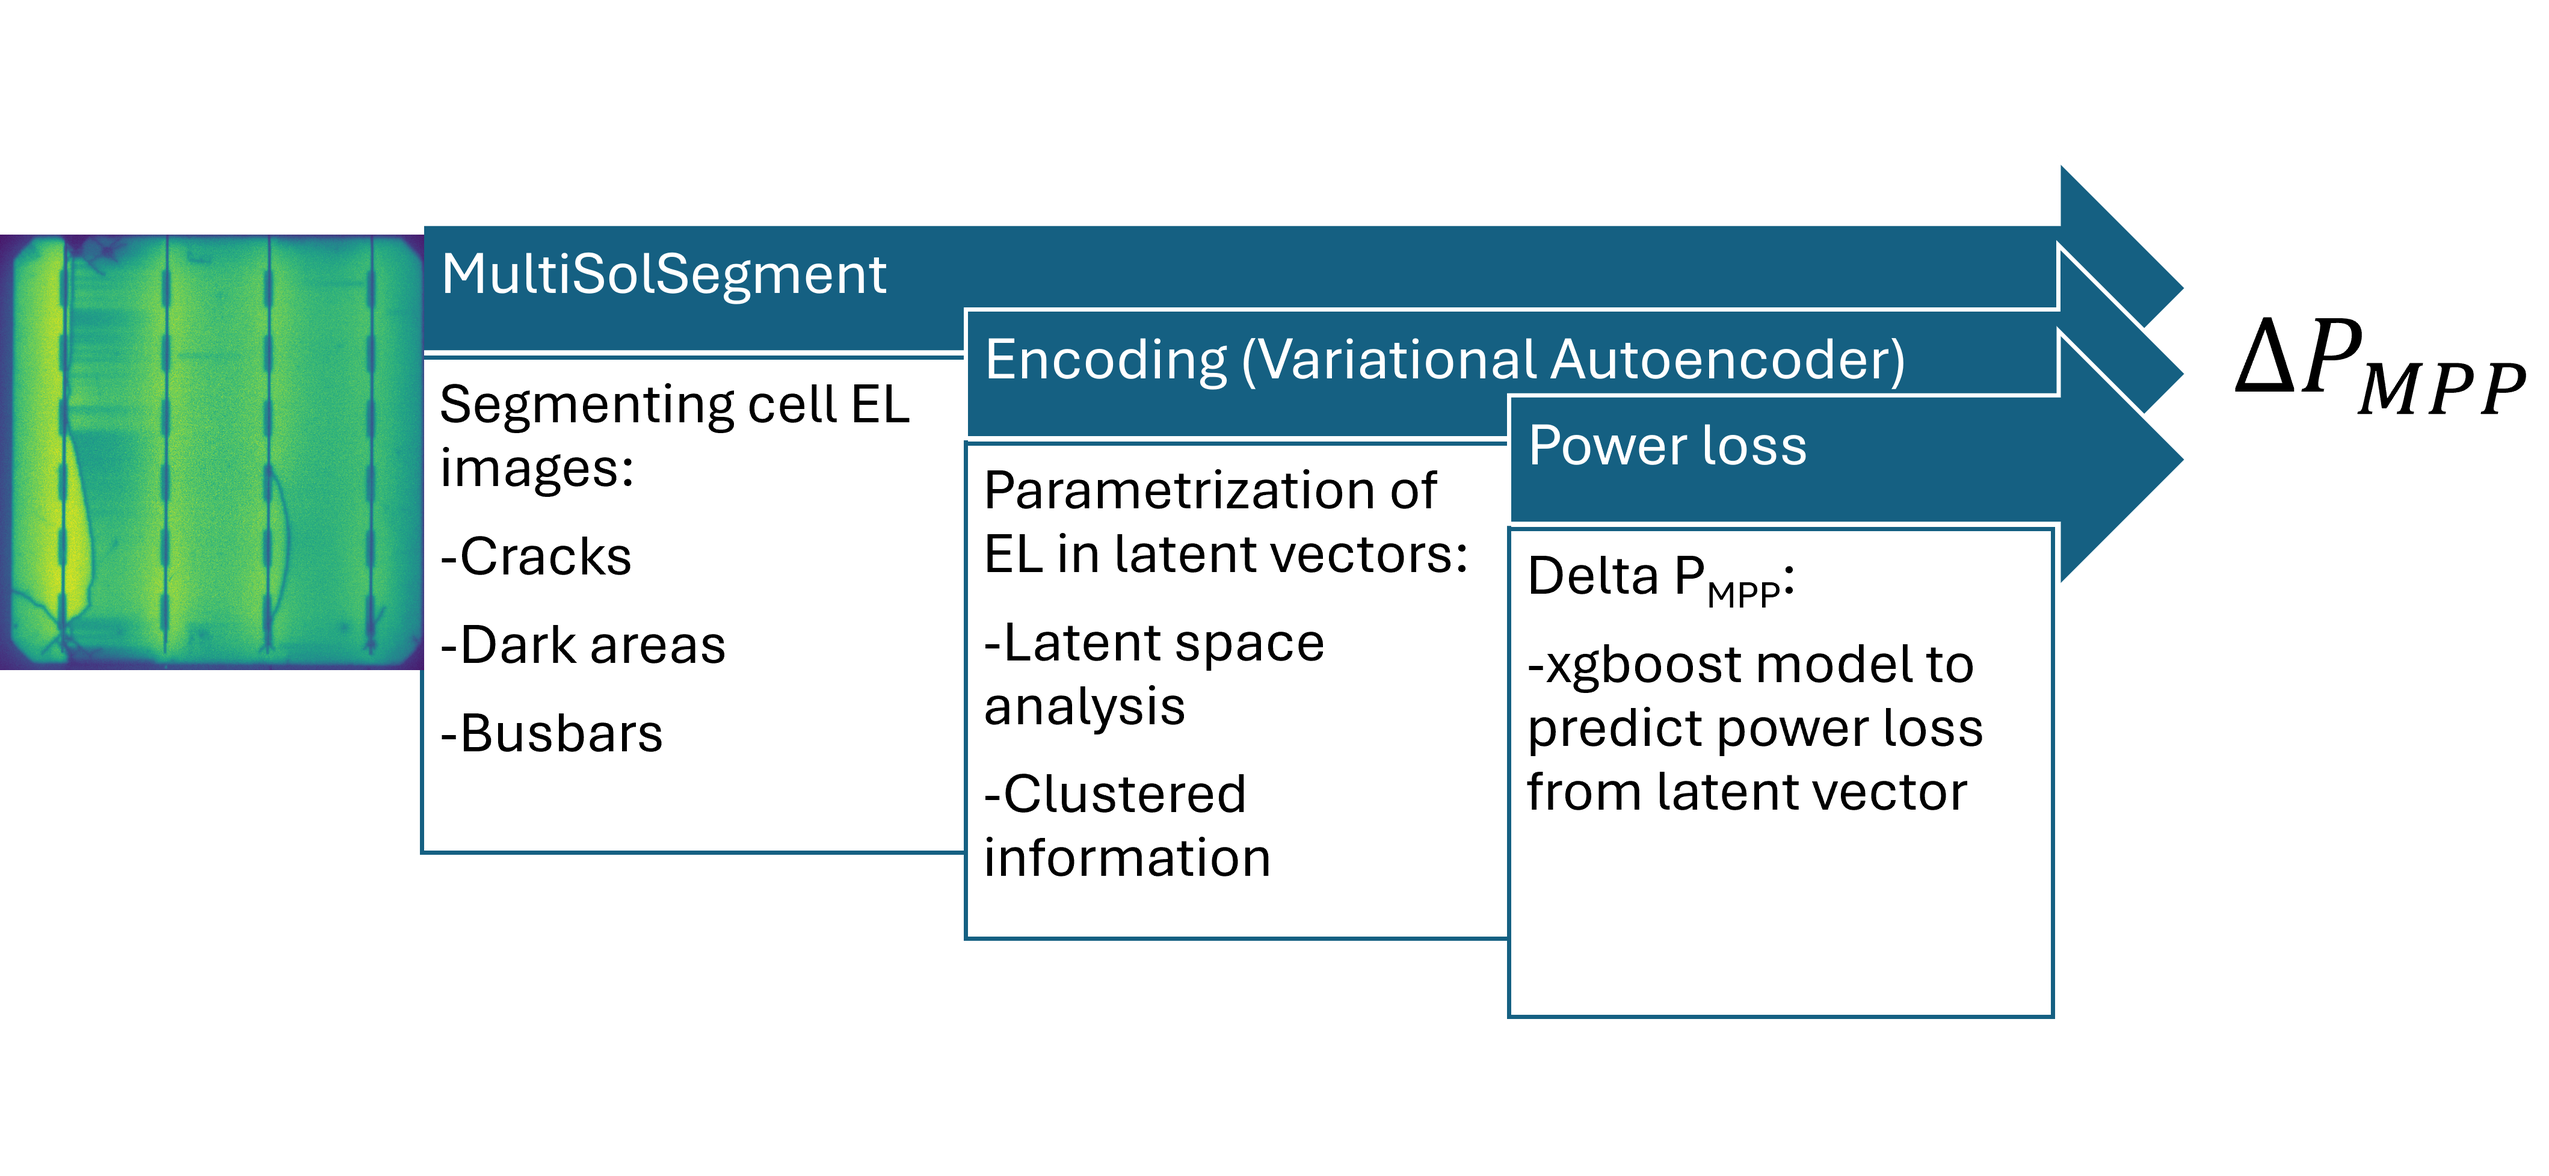
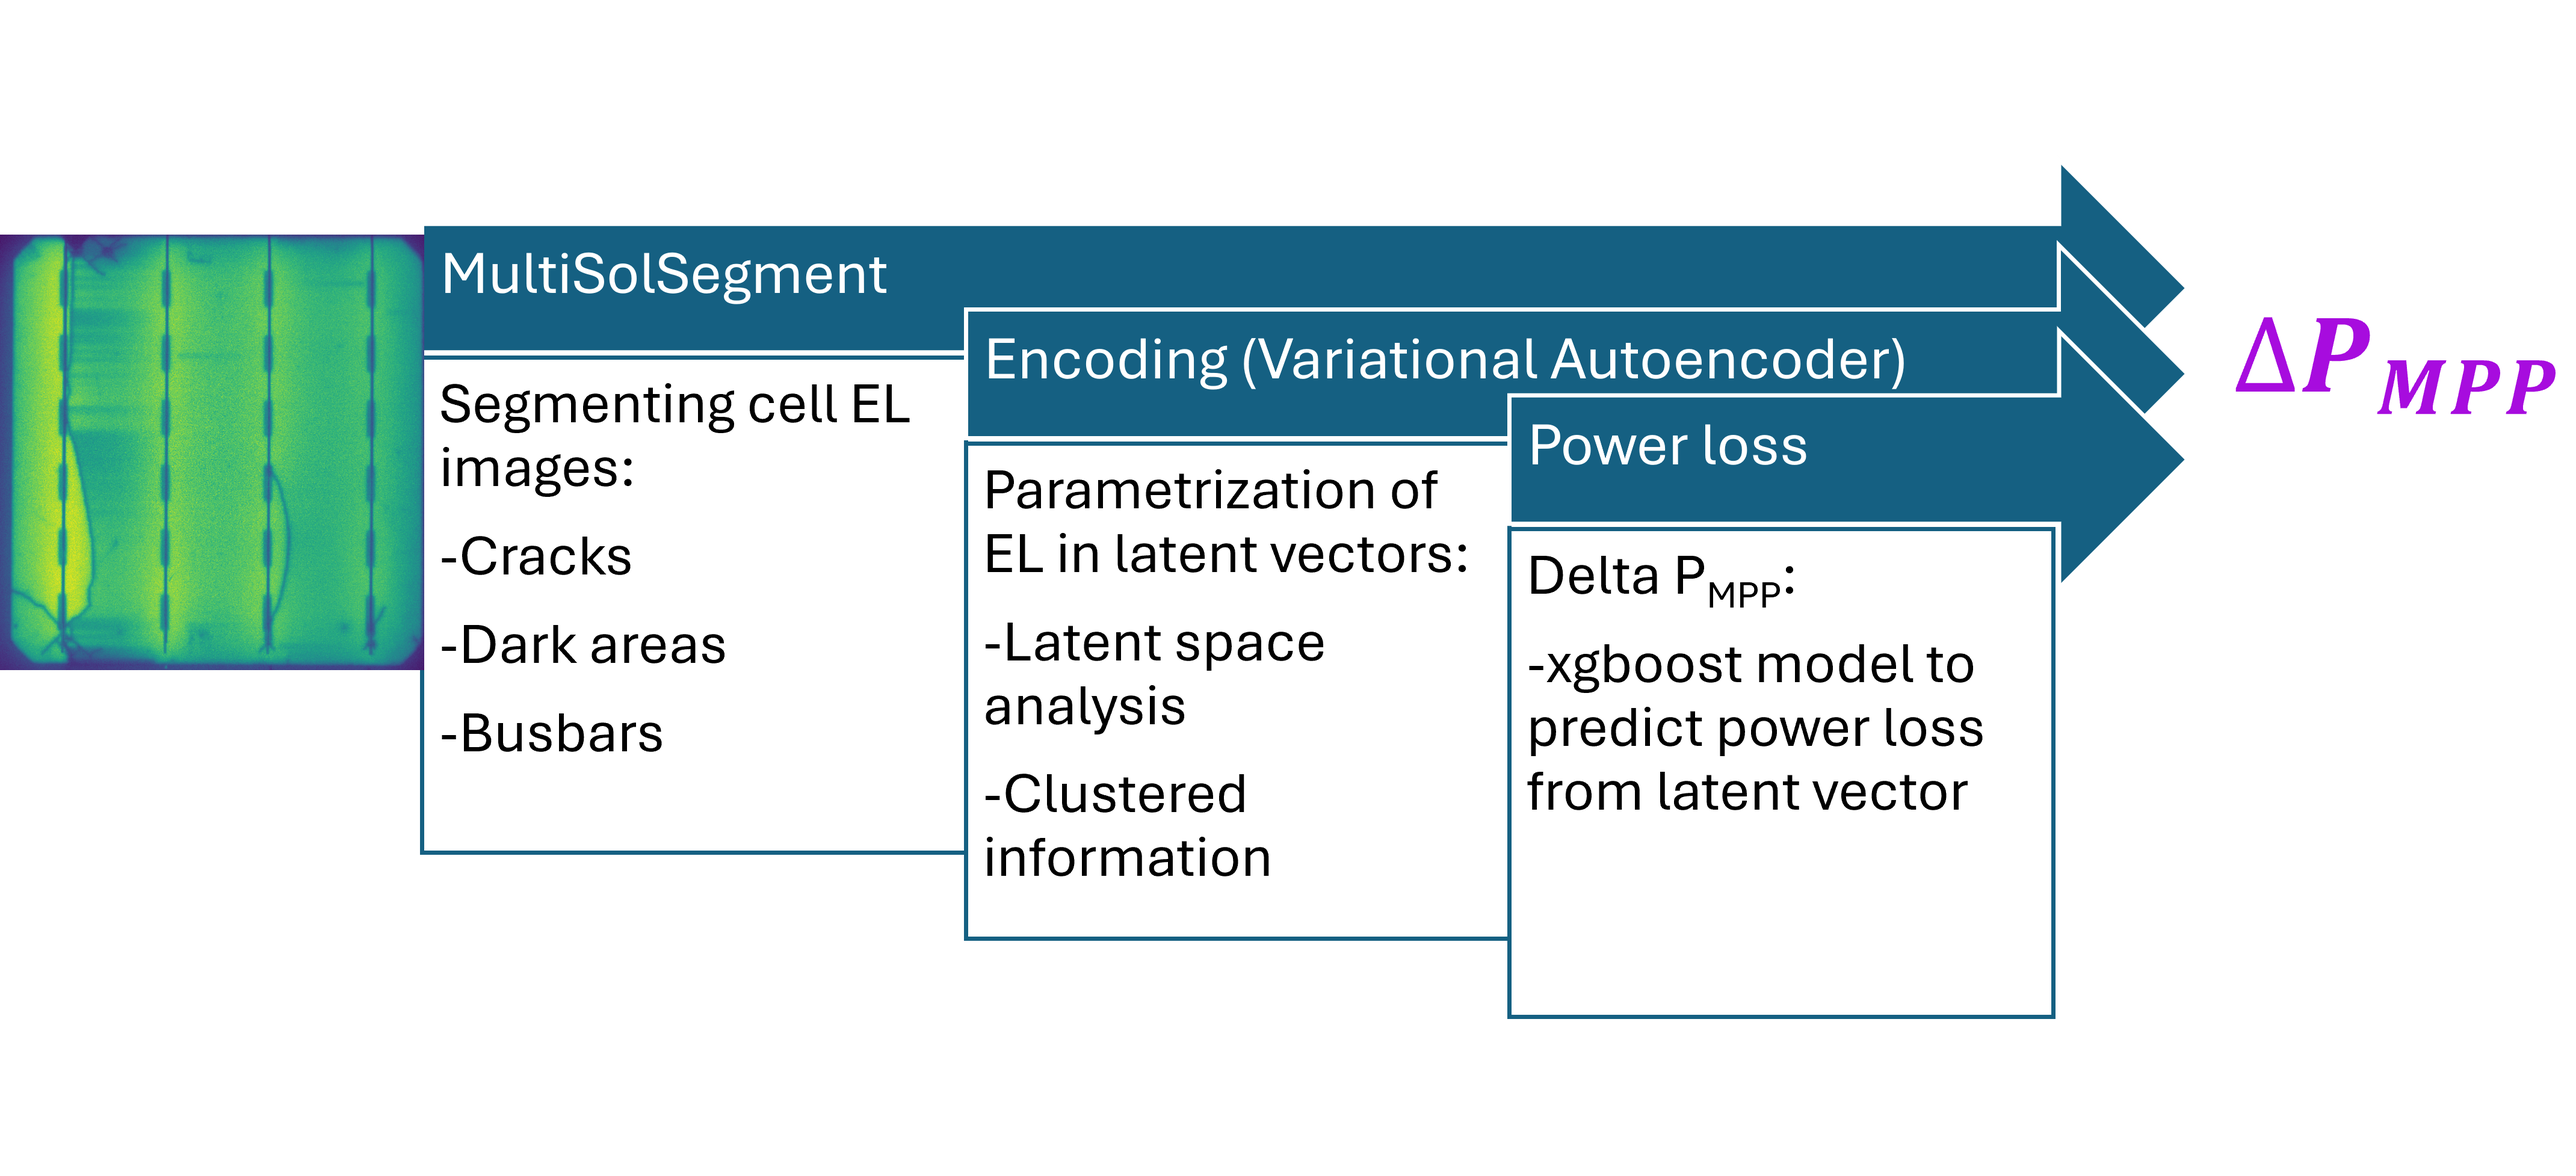
readme fixes
formatting fixes, new schematic fig

diff --git a/README.md b/README.md
@@ -1,4 +1,4 @@
-<img src="docs/pvcracks_logo.png" width="600">
+<img src="docs/pvcracks_logo.png" width="200">
 
 # PVCracks
 
